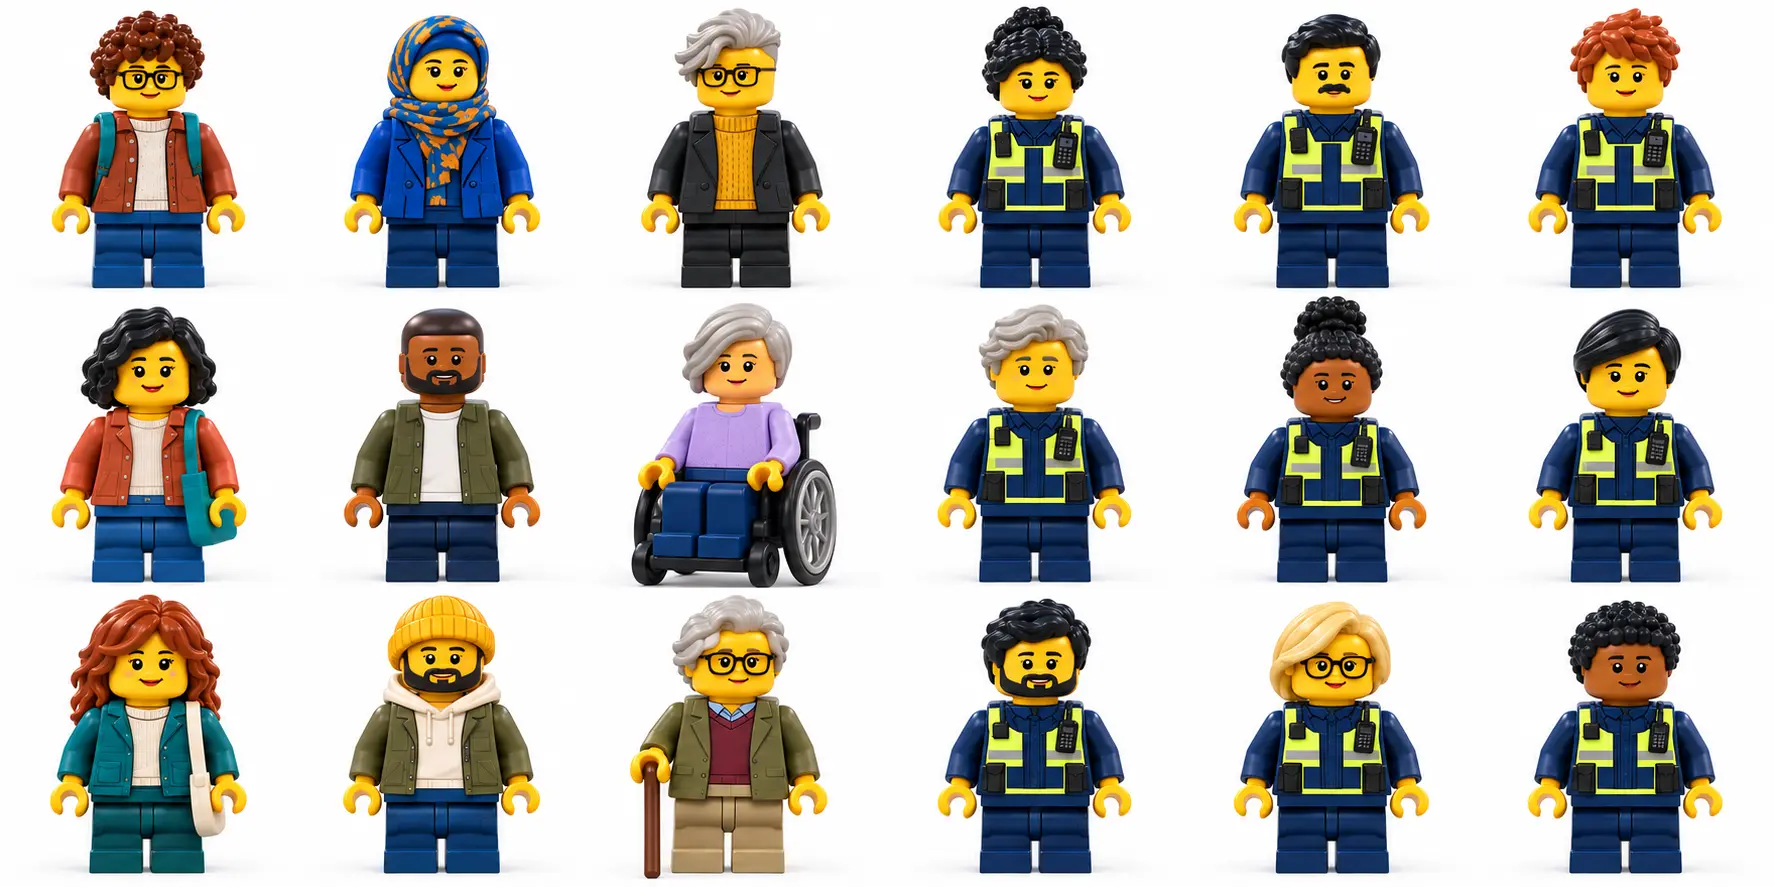
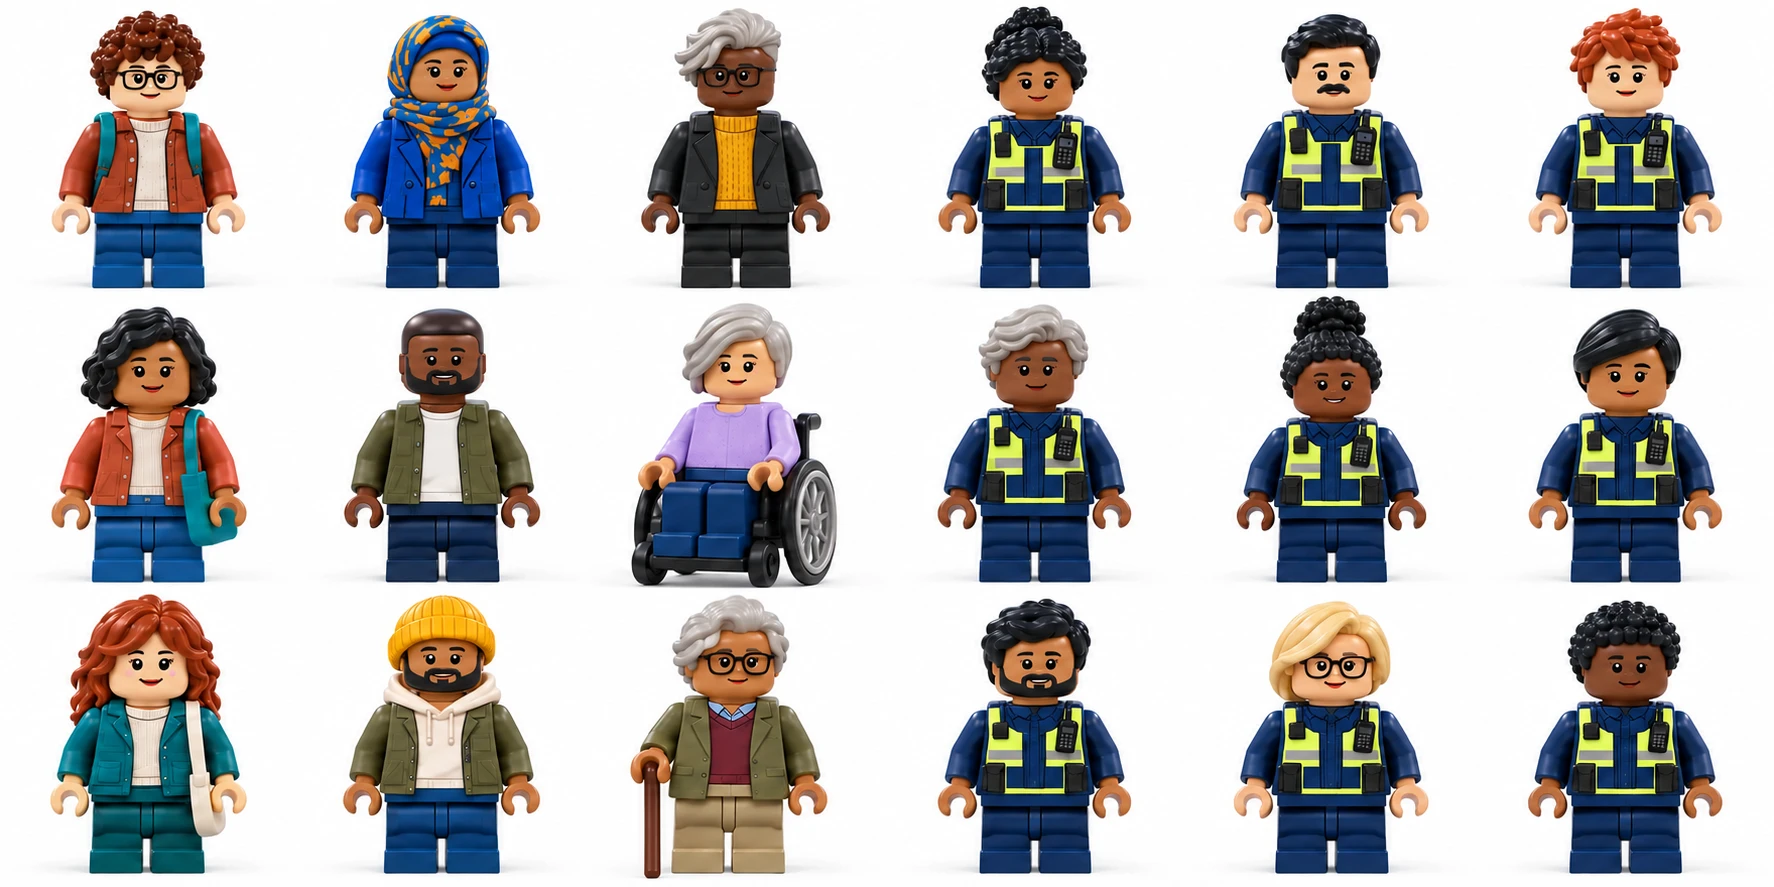
Use cream-to-dark-brown skin tones across characters and heroes

diff --git a/docs/CHARACTERS.md b/docs/CHARACTERS.md
@@ -30,6 +30,8 @@ Node coverage includes all random-selection intervals, character edits without s
 
 ## Artwork record
 
+- Faces, heads, necks and hands use a natural skin-tone spectrum from cream through tan to dark brown across both roles. Each character's exposed skin matches, and the two hero viewpoints use the same tones for Alex and Ciara. Appearance has no effect on scenario facts or scoring.
+- The September 2026 colour revision uses the built-in image-generation tool to edit the original artwork, retaining the cast layout, clothing, assistive devices and role colours. All responsive hero sizes derive from the same revised image for their viewpoint.
 - Asset: [cast.webp](../assets/characters/cast.webp), 1774 × 887 pixels, a six-column, three-row sheet displayed through equal square image windows.
 - Generated with the built-in OpenAI image-generation tool, using the selected combined design concept as its identity reference. The result was inspected before integration and converted to WebP for local delivery.
 - The final generation prompt is retained in [character-art-prompt.txt](character-art-prompt.txt).
